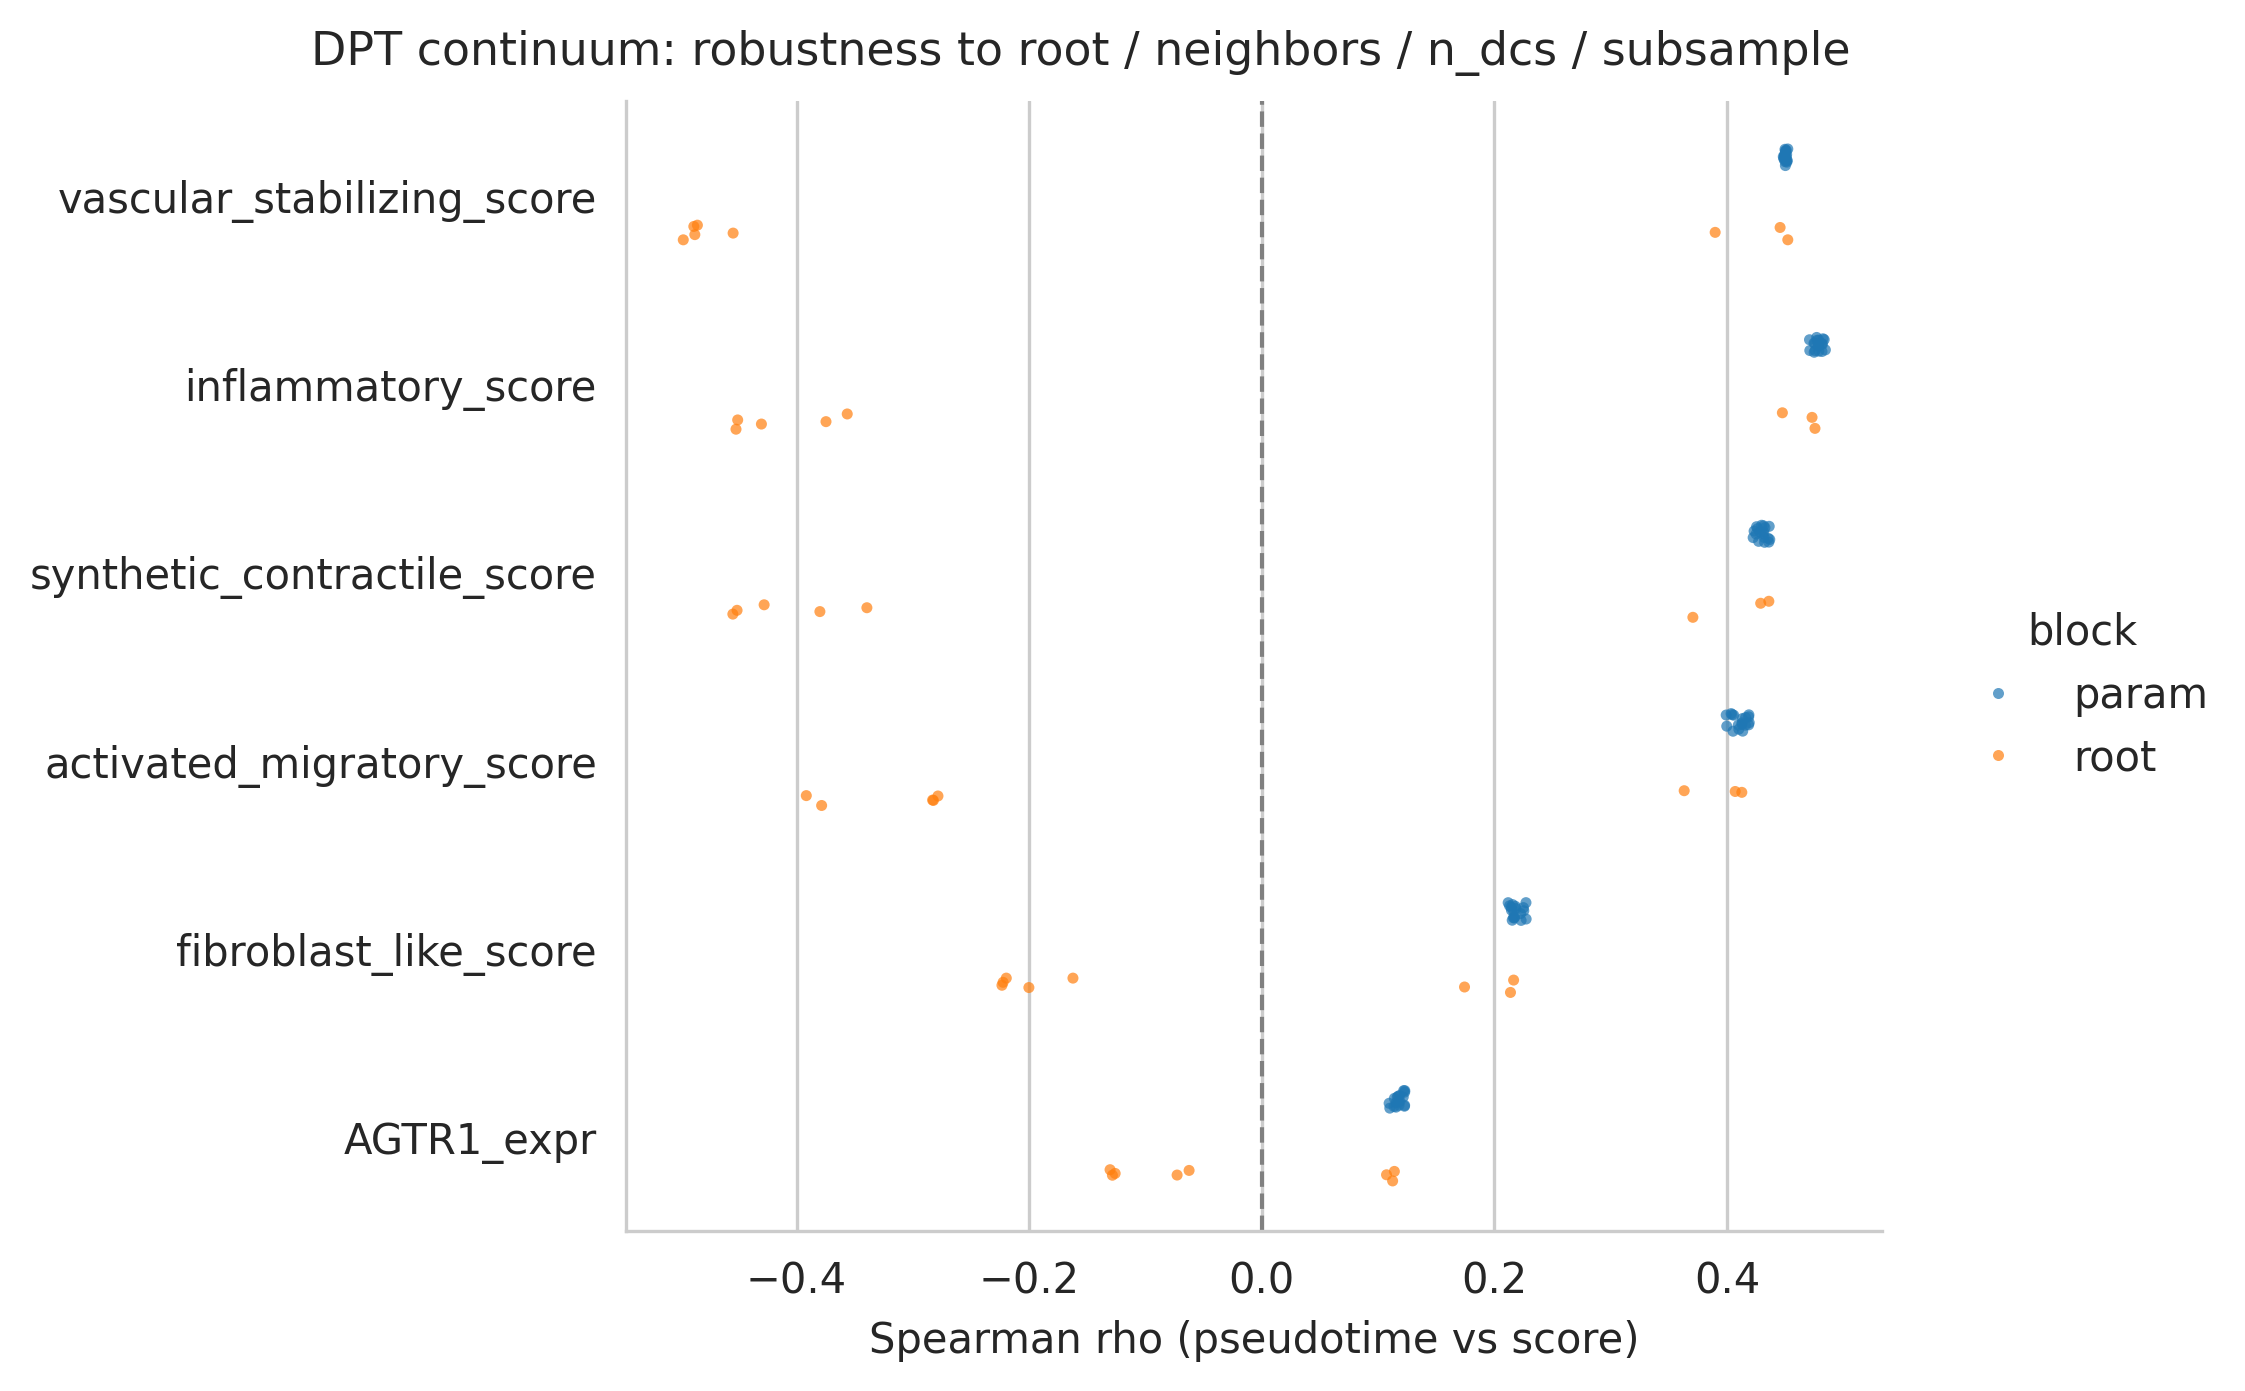
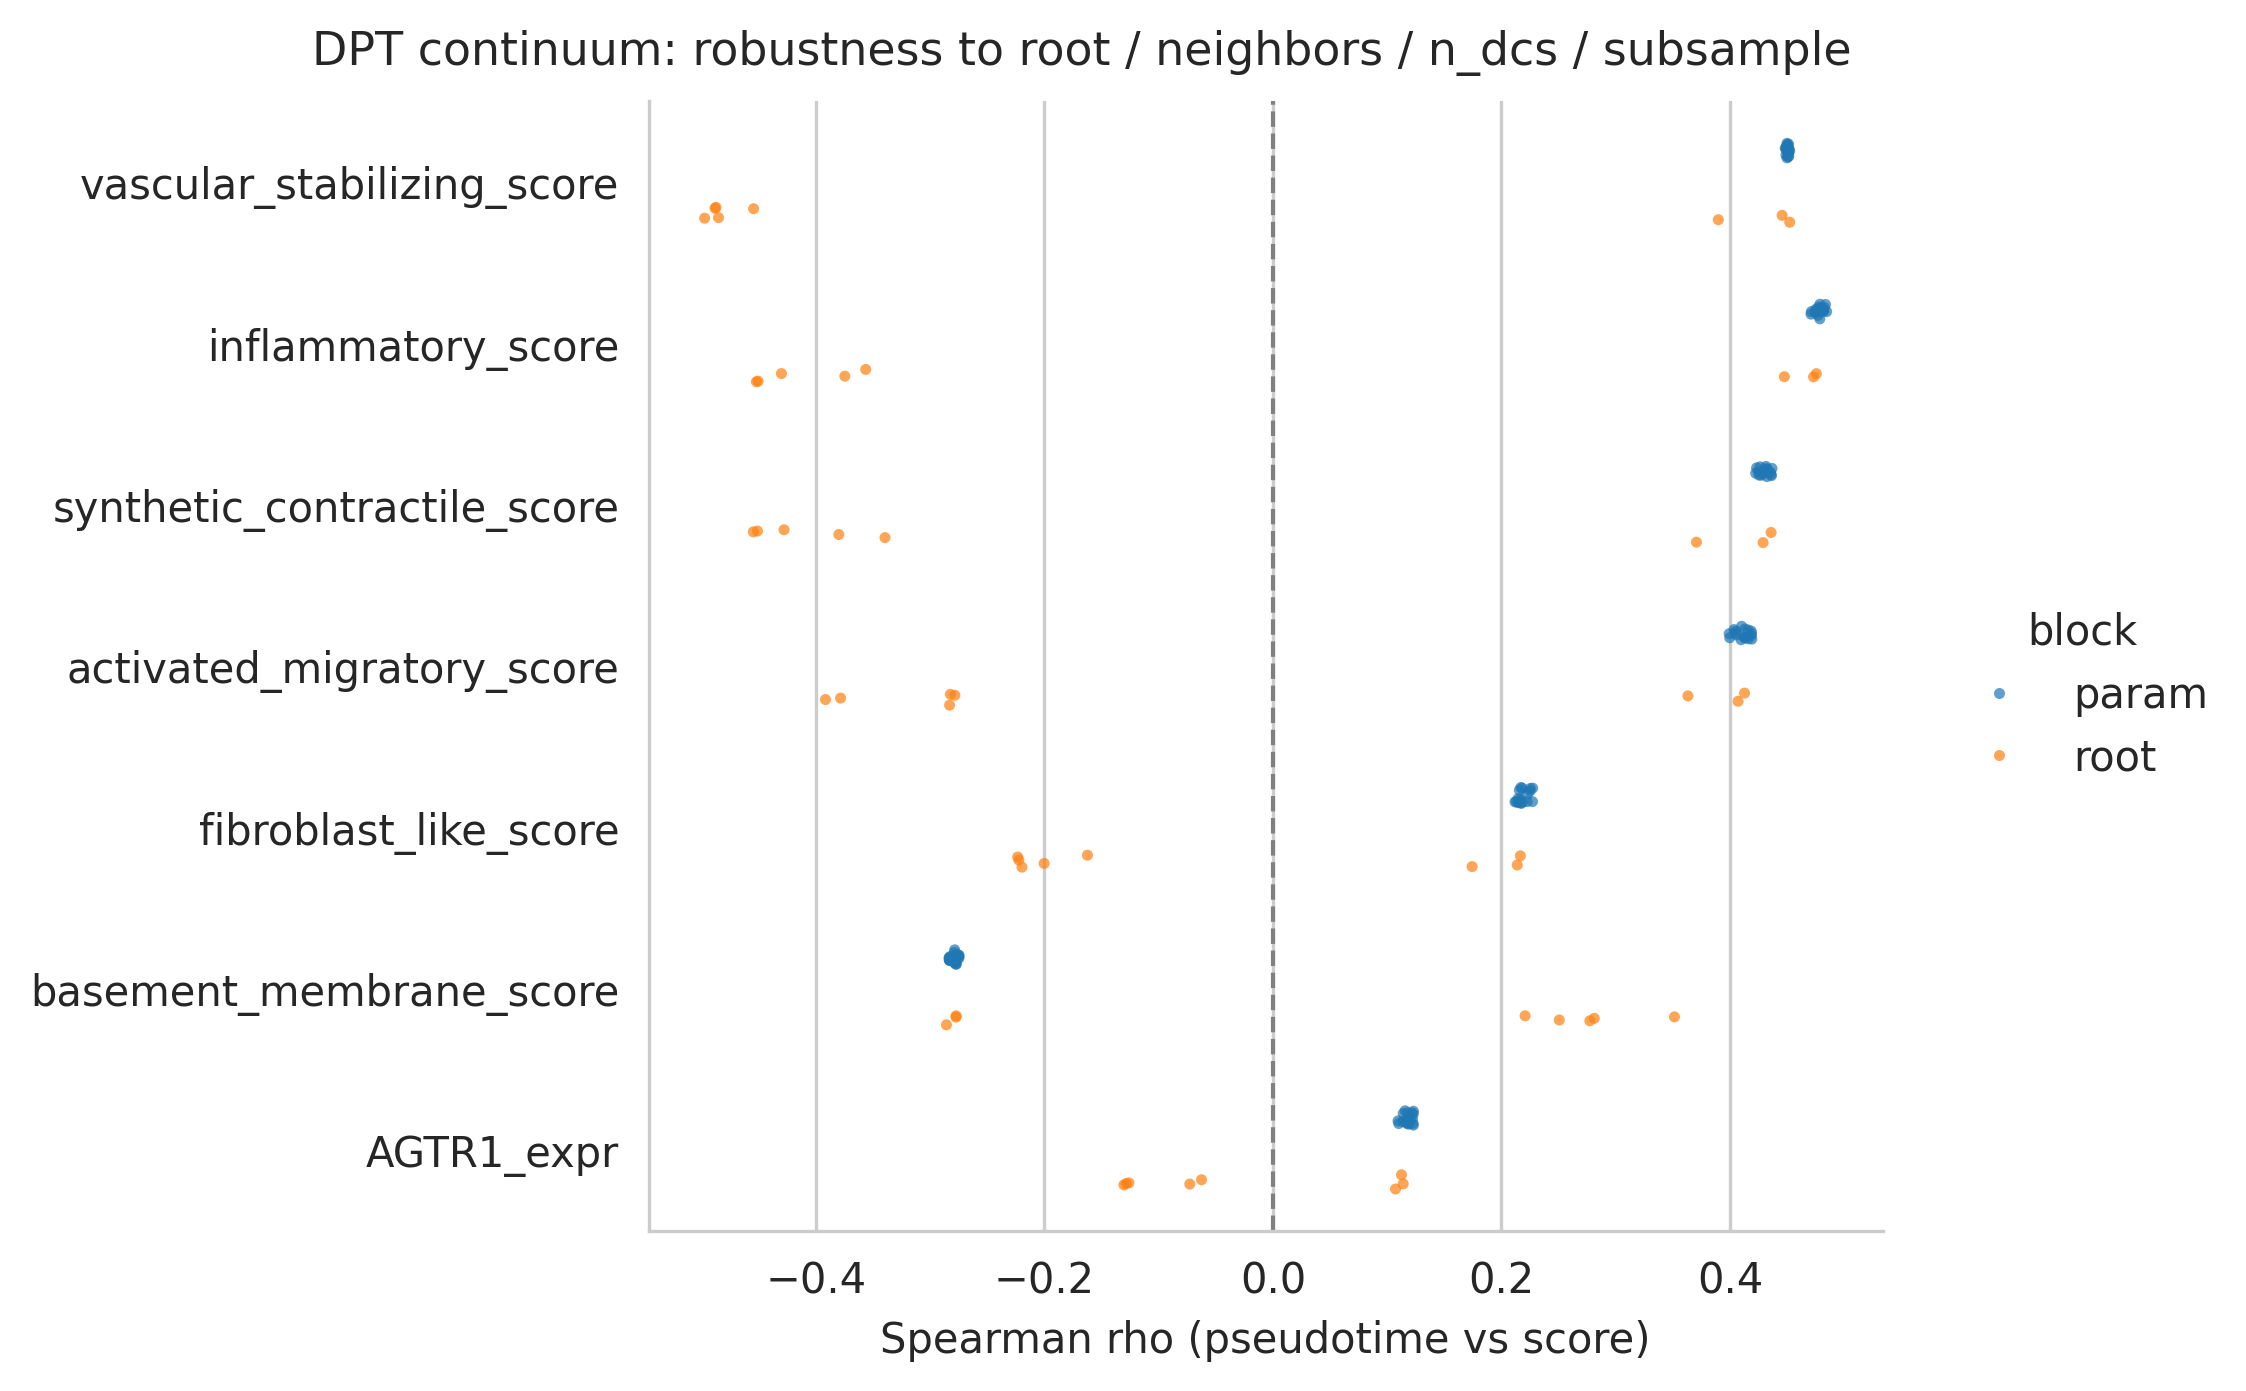
Added BM panel to DPT and updated associated figures

diff --git a/pericyte_states/_h/02.continuum_dpt.py b/pericyte_states/_h/02.continuum_dpt.py
@@ -35,7 +35,7 @@ sns.set_style("whitegrid")
 TREND_COLS = [
     "vascular_stabilizing_score", "inflammatory_score",
     "synthetic_contractile_score", "activated_migratory_score",
-    "fibroblast_like_score", "AGTR1_expr",
+    "fibroblast_like_score", "basement_membrane_score", "AGTR1_expr",
 ]
 
 

diff --git a/pericyte_states/_h/02b.continuum_sensitivity.py b/pericyte_states/_h/02b.continuum_sensitivity.py
@@ -40,7 +40,7 @@ sns.set_style("whitegrid")
 TREND_COLS = [
     "vascular_stabilizing_score", "inflammatory_score",
     "synthetic_contractile_score", "activated_migratory_score",
-    "fibroblast_like_score", "AGTR1_expr",
+    "fibroblast_like_score", "basement_membrane_score", "AGTR1_expr",
 ]
 
 